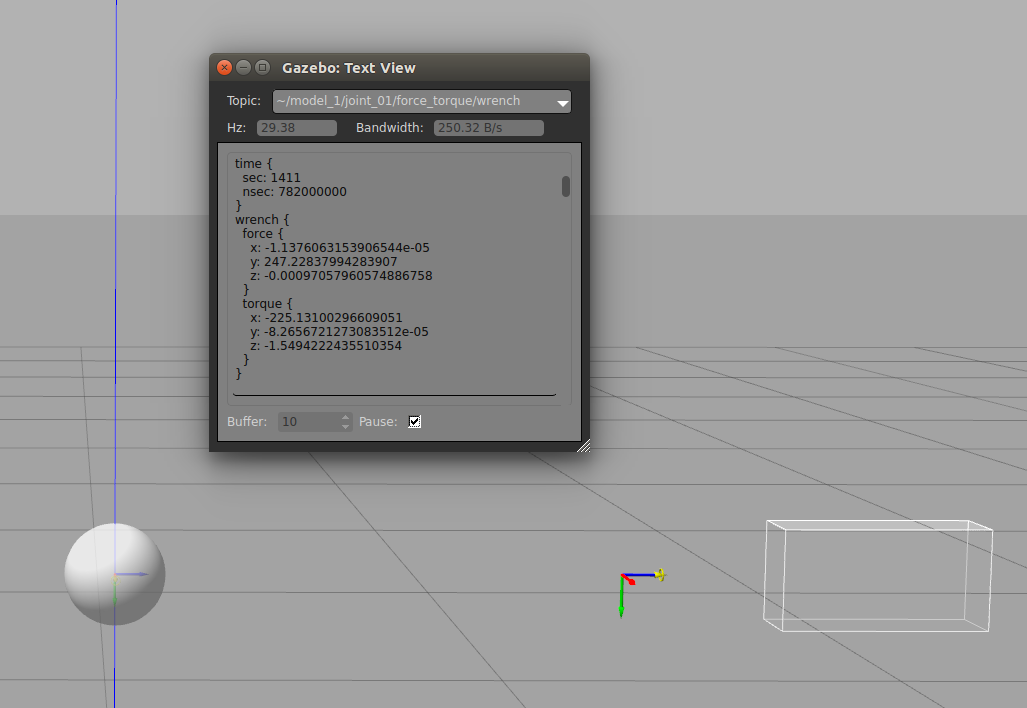
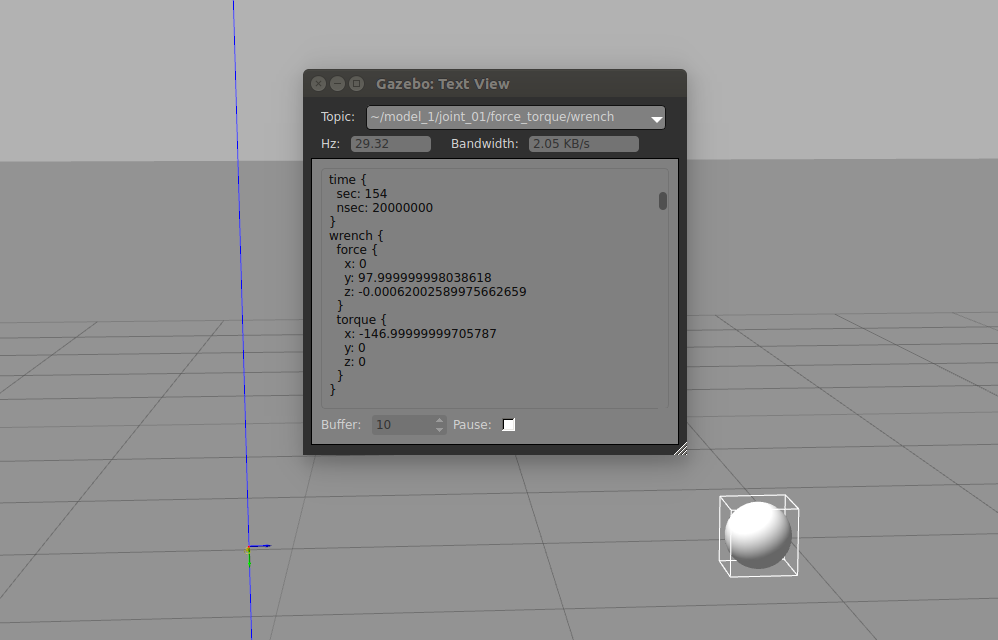
Updated images to new world

diff --git a/force_torque_sensor/tutorial.md b/force_torque_sensor/tutorial.md
@@ -1,12 +1,11 @@
 # Introduction
 This tutorial describes how to use a force/torque sensor.
-TODO This is a sensor that can be added to a link or a joint
+TODO This is a sensor that can be added to a link or a joint.
 It publishes force and torque readings to a topic.
 
 
-# Quick start
+# Quick Start
 This section gives a quick view of what a force/torque sensor does.
-
 
 ## Steps to see the sensor in action
 
@@ -32,66 +31,49 @@ In a new terminal open the topic viewer with the following command:
 gz topic --view /gazebo/default/model_1/joint_01/force_torque/wrench
 ```
 
-A window should open that looks like this:
-
-[[file:files/force_torque_topic_window.png|320px]]
 
 **Apply forces and torques in gazebo**
 
-[Apply a force](tutorials?tut=apply_force_torque) to `link_2` of 500 N in the + Y direction.
+[Apply a force](tutorials?tut=apply_force_torque) to `link_1` of 500 N in the +Y direction.
 Observe the output in the topic viewer window.
 
 
-## Understanding the demo world
+## Understanding the example world
 
 **At the start of the world**
 
 [[file:files/force_torque_demo.png|480px]]
 
-The demo world has two links and two joints.
-The two links are a sphere and a block, each with a mass of 10 kg.
+The demo world has one link and one joints.
+The link is a sphere with a mass of 10 kg offset 1.5 m from the joint.
 `joint_01` connects a sphere to the word, allowing rotation on its X axis.
-`joint_12` connects a block to the sphere with all degrees of freedom fixed.
-At the start the block is balanced perfectly above the sphere.
+At the start the sphere balanced at the top of the joint.
 The sensor on `joint_01` reports the following:
 
-```
-wrench {
-  force {
-    x: 0
-    y: 0
-    z: -195.99999999999994
-  }
-  torque {
-    x: 0
-    y: 0
-    z: 0
-  }
-}
-```
+[[file:files/force_torque_topic_window.png|320px]]
 
-This joint is keeping both links floating above the ground plane.
-The force of -196 N on the Z axis comes from gravity.
+This joint is keeping the link floating above the ground plane.
+The force on the joint comes from gravity.
 
 ```
-forceJoint01_z = massLink1 * g + massLink2 * g
-               = 10 kg * -9.8 m/s^2 + 10 kg * -9.8 m/s^2
-               = -196 N
+forceJointZ = mass * g
+            = 10 kg * -9.8 m/s^2
+            = -98 N
 ```
 
-**After applying 500 N to link_2**
+**After applying a force to the link**
 
 [[file:files/force_torque_toppled.png|480px]]
 
-Applying a force to `link_2` causes the it to topple over and rest at a 90 degree angle.
+Applying a force to `link_2` causes it to topple over and rest at a 90 degree angle.
 `joint_01` has rotated so that the +Y axis points towards the ground plane.
 The block now applies a torque in the -X direction.
 
 [[file:files/force_torque_toppled_diagram.png|480px]]
 
-The mass supported by the joint remains the same, so the force should be +196 N on the Y axis.
-The mass of the block is positioned 1.5 m away from `joint_01` with an angle of -90 degrees.
-The torque about the X axis should be:
+The mass supported by the joint remains the same, so the force should be +98 N on the Y axis.
+The mass of the sphere is positioned 1.5 m away from `joint_01` on the joint's Z axis.
+The torque about the X axis is:
 
 ```
 torqueJoint01_x = r X R
@@ -101,11 +83,8 @@ torqueJoint01_x = r X R
                 = -147 Nm
 ```
 
-However watching the sensor readings it is clear the force and torque vary wildly.
-What's going on?
 
-
-# Understanding the force_torque sensor
+# Understanding the Force/Torque Sensor
 
 
 
